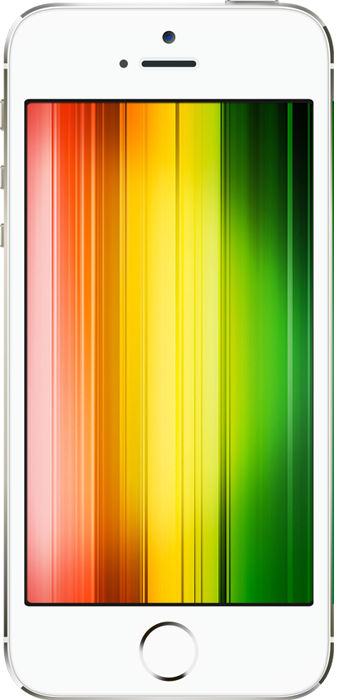
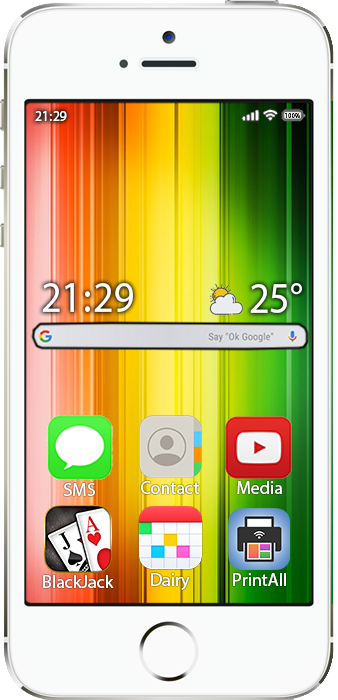
update images

diff --git a/app/src/MyIphone.java b/app/src/MyIphone.java
@@ -114,6 +114,10 @@ public class MyIphone {
         	buttons[index] = new JButton();
         	buttons[index].addActionListener(getAppButtonEventListener(app));
         	buttons[index].setBounds(BUTTONS_LOCATIONS[index][0], BUTTONS_LOCATIONS[index][1], BUTTON_WIDTH, BUTTON_HEIGHT);
+        	buttons[index].setOpaque(false);
+        	buttons[index].setContentAreaFilled(false);
+        	buttons[index].setBorderPainted(false);
+        		        			
         	label.add(buttons[app.ordinal()]);
         }
         
